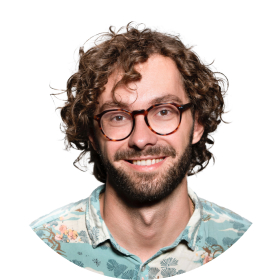
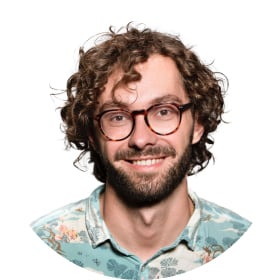
Added Isabel signature, optimised few pictures

diff --git a/static/signatures/IsabelDorn.html b/static/signatures/IsabelDorn.html
@@ -1,0 +1,150 @@
+<table
+  style="
+    background-color: #ffffff;
+    font-family: Arial;
+    text-align: left;
+    color: #484a47;
+    font-size: 14px;
+    line-height: 24px;
+    border-collapse: collapse;
+  "
+>
+  <tbody>
+    <tr>
+      <td
+        rowspan="7"
+        style="width: 140px; padding-right: 24px; vertical-align: top"
+      >
+        <img src="/signatures/images/photo-id.jpg" width="140" height="140" />
+      </td>
+
+      <td
+        colspan="5"
+        style="
+          padding-top: 48px;
+          padding-bottom: 0px;
+          font-size: 20px;
+          font-family: Arial;
+          font-weight: bold;
+          color: #0c2542;
+          line-height: 24px;
+        "
+      >
+        Isabel Dorn
+      </td>
+    </tr>
+    <tr>
+      <td
+        colspan="5"
+        style="padding-bottom: 16px; color: #4b6686; font-family: Arial"
+      >
+        Investment Analyst
+      </td>
+    </tr>
+    <tr>
+      <td colspan="5" style="display: flex; padding: 0; align-items: center">
+        <img
+          src="/signatures/images/phone.png"
+          width="20"
+          height="20"
+          style="margin-right: 8px"
+        />
+        <a
+          href="tel:+447871523652"
+          style="font-weight: bold; font-family: Arial; color: #003edb"
+          >+44(0)787 152 3652</a
+        >
+      </td>
+    </tr>
+    <tr>
+      <td colspan="5" style="display: flex; padding: 0; align-items: center">
+        <img
+          src="/signatures/images/email.png"
+          width="20"
+          height="20"
+          style="margin-right: 8px"
+        />
+        <a
+          href="mailto:isabel.dorn@out.fund"
+          style="font-weight: bold; font-family: Arial; color: #003edb"
+          >isabel.dorn@out.fund</a
+        >
+      </td>
+    </tr>
+    <tr>
+      <td colspan="5" style="display: flex; padding: 0; align-items: center">
+        <img
+          src="/signatures/images/website.png"
+          width="20"
+          height="20"
+          style="margin-right: 8px"
+        />
+        <a
+          href="https://out.fund/?utm_source=outbound&utm_medium=email&utm_campaign=signature&utm_content=IsabelDorn"
+          target="_blank"
+          style="font-weight: bold; font-family: Arial; color: #003edb"
+          >www.out.fund</a
+        >
+      </td>
+    </tr>
+    <tr>
+      <td
+        colspan="5"
+        style="
+          display: flex;
+          padding: 0;
+          padding-bottom: 24px;
+          padding-top: 16px;
+          align-items: center;
+        "
+      >
+        <img
+          src="/signatures/images/LinkedIn.png"
+          width="20"
+          height="20"
+          style="margin-right: 8px"
+        />
+        <a
+          href="https://www.linkedin.com/in/isabel-dorn-084144150/"
+          target="_blank"
+          style="
+            font-weight: bold;
+            font-family: Arial;
+            color: #1c3654;
+            margin-right: 8px;
+          "
+          >Personal</a
+        >
+        <a
+          href="https://bit.ly/3RiR8UG"
+          style="font-weight: bold; font-family: Arial; color: #1c3654"
+          >Outfund</a
+        >
+      </td>
+    </tr>
+    <tr>
+      <td colspan="5" style="padding-bottom: 24px">
+        <a href="https://calendly.com/isabel-dorn" target="_blank">
+          <img
+            src="/signatures/images/email-button-15.jpg"
+            width="146"
+            height="36"
+          />
+        </a>
+      </td>
+    </tr>
+    <tr>
+      <td colspan="5">
+        <a
+          href="https://out.fund/?utm_source=outbound&utm_medium=email&utm_campaign=signature&utm_content=IsabelDorn"
+        >
+          <img
+            src="/signatures/images/email-banner.jpg"
+            width="555"
+            height="100"
+          />
+        </a>
+      </td>
+    </tr>
+  </tbody>
+</table>
